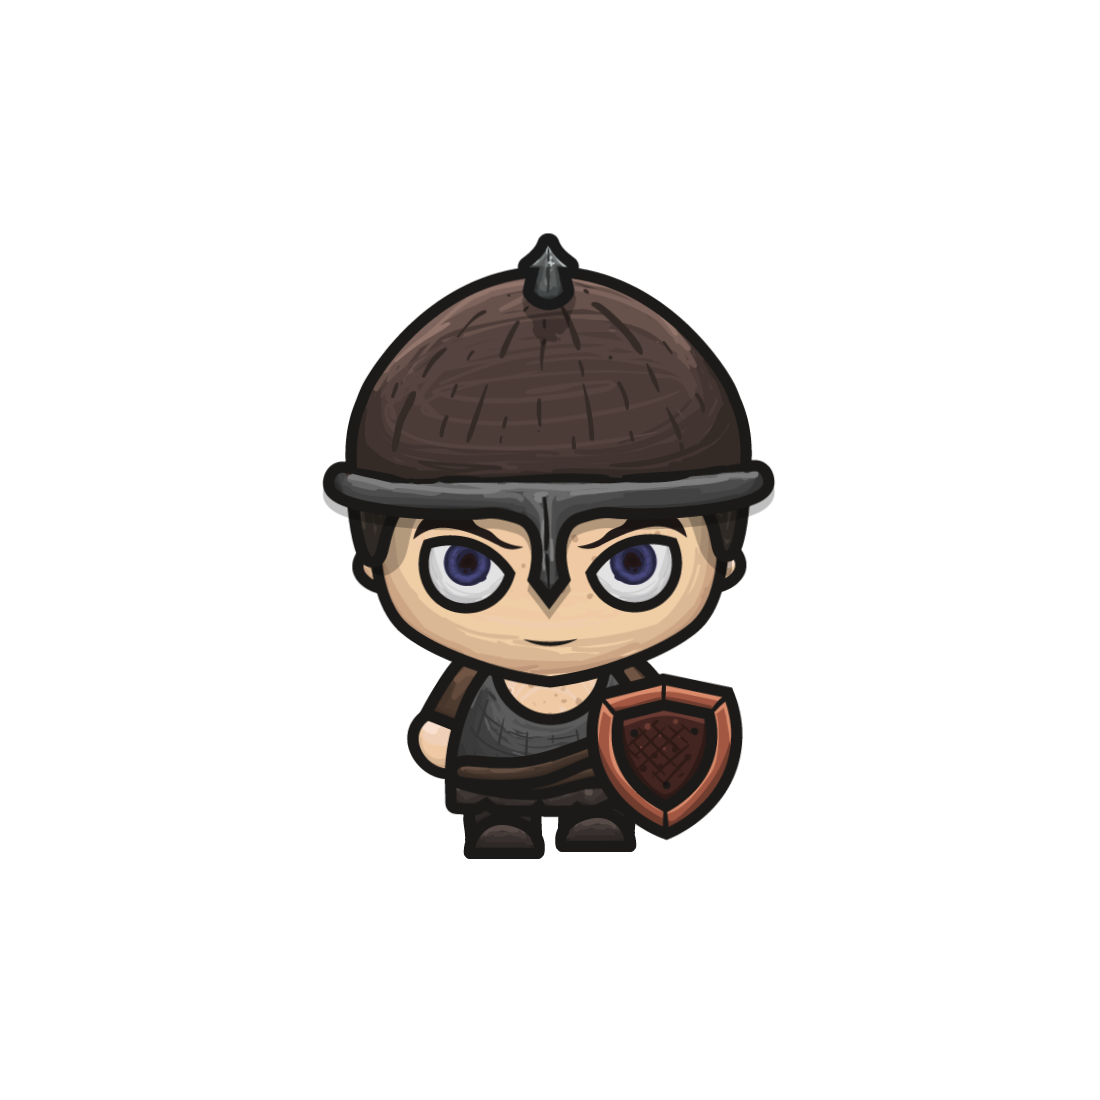
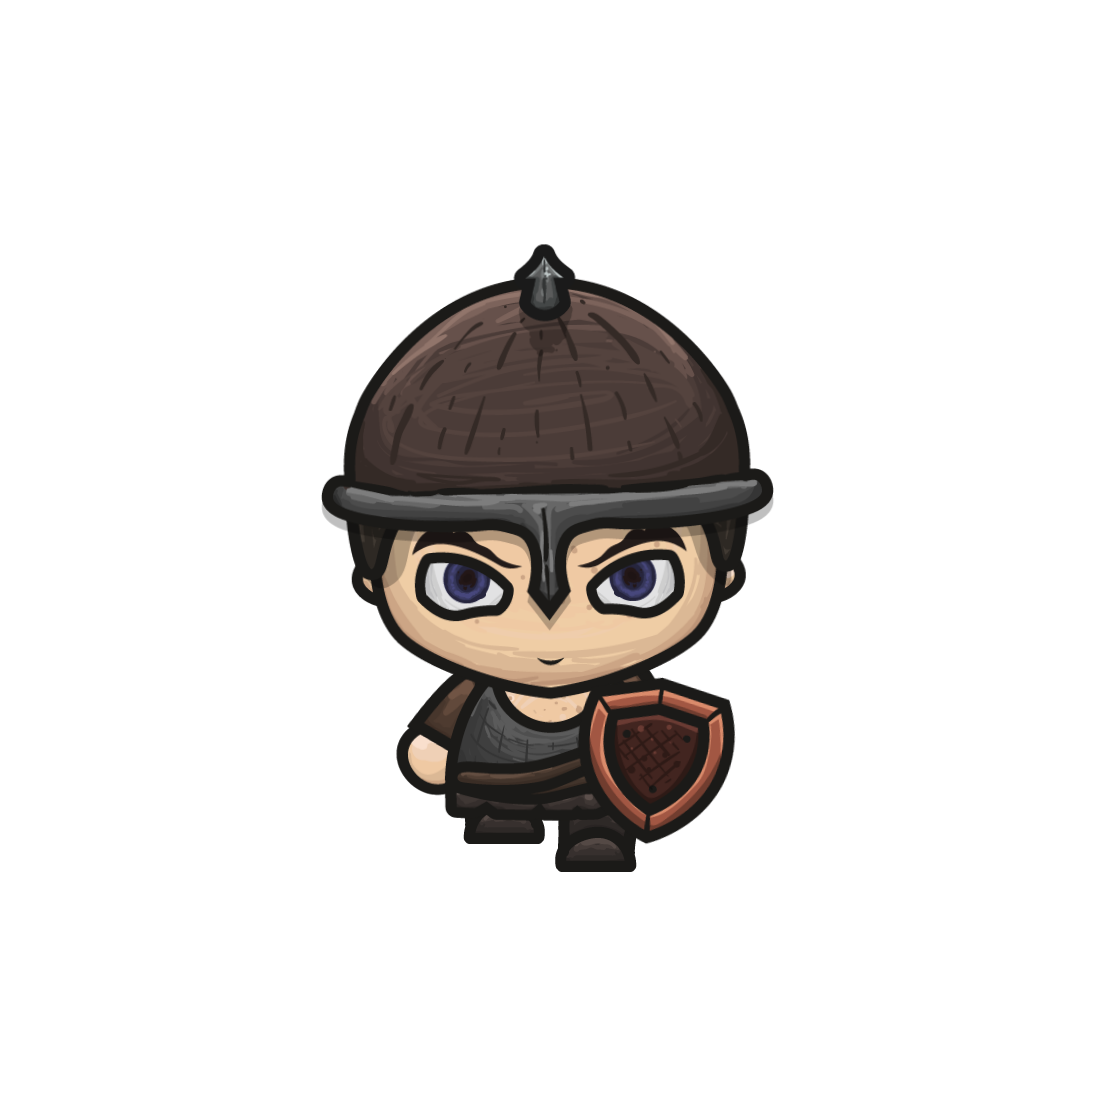
added simple sprite animation and redesigned the map

Changed region(s): [[0.2782, 0.2164, 0.7109, 0.8036]]

diff --git a/src/gameBackground/backgroundManager.java b/src/gameBackground/backgroundManager.java
@@ -10,7 +10,7 @@ import javax.imageio.ImageIO;
 
 import laucher.GamePanel;
 
-public class backgroundManager {
+public class backgroundManager extends backgroundPanel{
 	
 	GamePanel game;
 	backgroundPanel[] background;
@@ -20,7 +20,7 @@ public class backgroundManager {
 	{
 		this.game = game;
 	
-		background = new backgroundPanel[10];
+		background = new backgroundPanel[11];
 		mapTileSize = new int[game.tilesPerCol][game.tilesPerRow];
 		
 		getTileImage();
@@ -32,25 +32,37 @@ public class backgroundManager {
 		try {
 			
 			background[0] = new backgroundPanel();
-			background[0].background = ImageIO.read(getClass().getResourceAsStream("/background/leafygrasshires.png"));
+			background[0].backgroundImage = ImageIO.read(getClass().getResourceAsStream("/background/leafygrasshires.png"));
 			
 			background[1] = new backgroundPanel();
-			background[1].background = ImageIO.read(getClass().getResourceAsStream("/background/tilevariant2.png"));
+			background[1].backgroundImage = ImageIO.read(getClass().getResourceAsStream("/background/tilevariant2.png"));
 			
 			background[2] = new backgroundPanel();
-			background[2].background = ImageIO.read(getClass().getResourceAsStream("/background/bigrock.png"));
+			background[2].backgroundImage = ImageIO.read(getClass().getResourceAsStream("/background/tilevariant.png"));
 			
 			background[3] = new backgroundPanel();
-			background[3].background = ImageIO.read(getClass().getResourceAsStream("/background/topmiddle.png"));
+			background[3].backgroundImage = ImageIO.read(getClass().getResourceAsStream("/background/topmiddle.png"));
 			
 			background[4] = new backgroundPanel();
-			background[4].background = ImageIO.read(getClass().getResourceAsStream("/background/leftsideflat.png"));
+			background[4].backgroundImage = ImageIO.read(getClass().getResourceAsStream("/background/leftside.png"));
 			
 			background[5] = new backgroundPanel();
-			background[5].background = ImageIO.read(getClass().getResourceAsStream("/background/rightsideflat.png"));
+			background[5].backgroundImage = ImageIO.read(getClass().getResourceAsStream("/background/rightside.png"));
 			
 			background[6] = new backgroundPanel();
-			background[6].background = ImageIO.read(getClass().getResourceAsStream("/background/bottommiddle.png"));
+			background[6].backgroundImage = ImageIO.read(getClass().getResourceAsStream("/background/bottommiddle.png"));
+			
+			background[7] = new backgroundPanel();
+			background[7].backgroundImage = ImageIO.read(getClass().getResourceAsStream("/background/bottomrightcorner.png"));
+			
+			background[8] = new backgroundPanel();
+			background[8].backgroundImage = ImageIO.read(getClass().getResourceAsStream("/background/bottomleftcorner.png"));
+			
+			background[9] = new backgroundPanel();
+			background[9].backgroundImage = ImageIO.read(getClass().getResourceAsStream("/background/toprightcorner.png"));
+			
+			background[10] = new backgroundPanel();
+			background[10].backgroundImage = ImageIO.read(getClass().getResourceAsStream("/background/topleftcorner.png"));
 			
 		}catch(IOException e) {
 			e.printStackTrace();
@@ -103,7 +115,7 @@ public class backgroundManager {
 		{			
 			int tileNum = mapTileSize[col][row];
 		
-			g2.drawImage(background[tileNum].background, x, y, game.tileSize, game.tileSize, null);
+			g2.drawImage(background[tileNum].backgroundImage, x, y, game.tileSize, game.tileSize, null);
 			col++;
 			x += game.tileSize;
 			

diff --git a/src/entity/Player.java b/src/entity/Player.java
@@ -13,6 +13,7 @@ public class Player extends Entity {
 
 	GamePanel gp;
 	InputHandler userInput;
+	int playerCounter;
 	
 	public Player(GamePanel gp, InputHandler userInput) {
 		this.gp = gp;
@@ -49,6 +50,8 @@ public class Player extends Entity {
 	
 	public void update() {
 		//Updates player's position based on key pressed
+		if(userInput.upKey == true || userInput.downKey == true || userInput.leftKey == true || userInput.rightKey == true)
+		{
 				if(userInput.upKey == true) {
 					direction = "up";
 					y -= speed; 
@@ -65,6 +68,20 @@ public class Player extends Entity {
 					direction = "right";
 					x += speed;
 				}
+				
+				entityCounter++;
+				if(entityCounter > 10)
+				{
+					if(entityImageNum == 1)
+					{
+						entityImageNum = 2;
+					} else if(entityImageNum == 2)
+					{
+						entityImageNum = 1;
+					}
+					entityCounter = 0;
+				}
+		}
 	}
 	
 	public void draw(Graphics2D g2) {
@@ -76,16 +93,44 @@ public class Player extends Entity {
 		
 		switch(direction) {
 		case "up":
-			image = up1;
+			if(entityImageNum == 1)
+			{
+				image = up1;
+			}
+			if(entityImageNum == 2)
+			{
+				image = up2;
+			}
 			break;
 		case "down":
-			image = down1;
+			if(entityImageNum == 1)
+			{
+				image = down1;
+			}
+			if(entityImageNum == 2)
+			{
+				image = down2;
+			}
 			break;
 		case "left":
-			image = left1;
+			if(entityImageNum == 1)
+			{
+				image = left1;
+			}
+			if(entityImageNum == 2)
+			{
+				image = left2;
+			}
 			break;
 		case "right":
-			image = right1;
+			if(entityImageNum == 1)
+			{
+				image = right1;
+			}
+			if(entityImageNum == 2)
+			{
+				image = right2;
+			}
 			break;			
 		}
 		

diff --git a/src/laucher/GamePanel.java b/src/laucher/GamePanel.java
@@ -13,14 +13,16 @@ import java.awt.*;
 public class GamePanel extends JPanel implements Runnable {
 	
 	final int originalTileSize = 16; //Tiles are 16x16 pixels
-	final int scale = 4; //Scales the tiles by 3x
+	final int scale = 5; //Scales the tiles by 5x
 	public final int tileSize = originalTileSize * scale; //Actual tile size
 	
 	public final int tilesPerCol = 16; //16 tiles displayed horizontally
 	public final int tilesPerRow = 12; //12 tiles displayed vertically
 	
-	public final int screenWidth = tileSize * tilesPerCol; //48 * 16 = 768 pixels wide
-	public final int screenHeight = tileSize * tilesPerRow; //48 * 12 = 576 pixels tall
+	public final int screenWidth = tileSize * tilesPerCol; //80 * 16 = 1280 pixels wide
+	public final int screenHeight = tileSize * tilesPerRow; //80 * 12 = 960 pixels tall
+	
+	
 	
 	BufferedImage backgroundTest = null;
 	

diff --git a/src/entity/Entity.java b/src/entity/Entity.java
@@ -10,4 +10,10 @@ public class Entity {
 	
 	public BufferedImage up1, up2, down1, down2, left1, left2, right1, right2;
 	public String direction;
+	
+	//This counter is used to switch the image to give the entity some animation
+	public int entityCounter = 0;
+	
+	//These keeps track of what image is being displayed for the entity
+	public int entityImageNum = 1;
 }

diff --git a/src/laucher/UserInterface.java b/src/laucher/UserInterface.java
@@ -37,10 +37,10 @@ public class UserInterface {
 	
 	public void pauseMessage() {
 		String text = "GAME PAUSED";
-		int x = 200;
+		int x = 300;
 		int y = game.screenHeight / 2;
 		
-		g2.drawString(text, 200, y);
+		g2.drawString(text, 350, y);
 	}
 	
 }

diff --git a/src/gameBackground/backgroundPanel.java b/src/gameBackground/backgroundPanel.java
@@ -4,6 +4,6 @@ import java.awt.image.BufferedImage;
 
 public class backgroundPanel {
 	
-	public BufferedImage background;	
+	public BufferedImage backgroundImage;	
 
 }

diff --git a/src/inventory/Inventory.java b/src/inventory/Inventory.java
@@ -31,7 +31,7 @@ public class Inventory {
 		return v.elementAt(index);
 	}
 	
-	int GetSize() {
+	public int GetSize() {
 		return v.size();
 	}
 	
